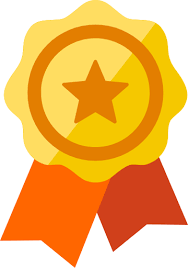
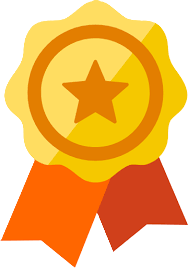
feat: (WEB-70) show premium badge on listing

diff --git a/src/style/PreviewImage.css b/src/style/PreviewImage.css
@@ -6,6 +6,33 @@
   aspect-ratio: 16 / 9;
 }
 
+.preview-img-premium-badge {
+  position: absolute;
+  top: 5px;
+  right: 5px;
+  display: flex;
+  align-items: center;
+  gap: 4px;
+  background-color: rgb(255, 0, 0);
+  color: white;
+  font-size: 18px;
+  font-weight: 700;
+  padding: 3px 7px;
+  border-bottom-left-radius: 5px;
+  border-top-right-radius: 5px;
+  letter-spacing: 0.4px;
+  z-index: 1;
+}
+
+.preview-img-premium-badge img {
+  background-color: white;
+  border-radius: 50%;
+  padding: 2px;
+  width: 23px;
+  height: 23px;
+  object-fit: contain;
+}
+
 /* ─── Arrow Buttons ─── */
 .preview-image-arrow {
   background: rgba(0, 0, 0, 0.5);
@@ -94,6 +121,15 @@
 
 /* ─── Tablet (481px – 1024px) ─── */
 @media (min-width: 481px) and (max-width: 1024px) {
+  .preview-img-premium-badge {
+    font-size: 1rem;
+  }
+
+  .preview-img-premium-badge img {
+    width: 20px;
+    height: 20px;
+  }
+
   .preview-image-arrow {
     height: 2.5rem;
     width: 2.5rem;
@@ -122,6 +158,15 @@
     border-radius: 10px;
     /* Taller crop on mobile for better visual */
     aspect-ratio: 4 / 3;
+  }
+
+  .preview-img-premium-badge {
+    font-size: 0.8rem;
+  }
+
+  .preview-img-premium-badge img {
+    width: 17px;
+    height: 17px;
   }
 
   .preview-image-arrow {

diff --git a/src/data/model/listingModel.js b/src/data/model/listingModel.js
@@ -147,6 +147,7 @@ class Listing {
     addedBy = "",
     updatedBy = "",
     isClaimed = false,
+    isPremium = false,
     ownerId = "",
     ownerName = "Unknown",
     claimStatus = "unclaimed",
@@ -181,6 +182,7 @@ class Listing {
     this.addedBy = addedBy;
     this.updatedBy = updatedBy;
     this.isClaimed = isClaimed;
+    this.isPremium = isPremium;
     this.ownerId = ownerId;
     this.ownerName = ownerName;
     this.claimStatus = claimStatus;
@@ -225,6 +227,7 @@ class Listing {
       addedBy: json.addedBy || "",
       updatedBy: json.updatedBy || "",
       isClaimed: json.isClaimed || false,
+      isPremium: json.isPremium || false,
 
       ownerId: json.ownerId || "",
       ownerName: capitalizeWords(json.ownerName) || "Unknown",
@@ -298,6 +301,7 @@ class Listing {
       tags: this.tags,
       addedBy: this.addedBy,
       isClaimed: this.isClaimed,
+      isPremium: this.isPremium,
       ownerId: this.ownerId,
       ownerName: this.ownerName,
       claimStatus: this.claimStatus,

diff --git a/src/components/ListingCard.jsx b/src/components/ListingCard.jsx
@@ -1,6 +1,7 @@
 import "../style/ListingCard.css";
 import { useNavigate } from "react-router-dom";
 import empty_thumb from "../assets/empty_thumb.png"
+import premiumImg from "../assets/premium.png";
 
 
 export default function ListingCard({listing}) {
@@ -17,8 +18,19 @@ export default function ListingCard({listing}) {
   return (
     <div className="listing-card" onClick={navigateToListingDetails}>
       {/* Image */}
-      <div className="listing-image">
-        <img src={imageUrl} alt={listing.name} onError={(e) => (e.target.src = empty_thumb)}/>
+      <div 
+        className="listing-image" 
+        style={{
+          backgroundImage: `url(${imageUrl})`,
+          backgroundSize: "cover",
+          backgroundPosition: "center"
+        }}>
+        {listing?.isPremium && (
+            <div className="premium-badge">
+              <img src={premiumImg} alt="premium" /> 
+              <span>Premium</span>
+            </div>
+          )}
       </div>
 
       {/* Content */}

diff --git a/src/style/ListingCard.css b/src/style/ListingCard.css
@@ -19,6 +19,7 @@
   width: 100%;
   aspect-ratio: 16 / 9;
   overflow: hidden;
+  position: relative;
 }
 
 .listing-image img {
@@ -41,6 +42,33 @@
   white-space: nowrap;
   overflow: hidden;
   text-overflow: ellipsis;
+}
+
+.premium-badge {
+  position: absolute;
+  top: 3px;
+  right: 3px;
+  display: flex;
+  align-items: center;
+  gap: 2px;
+  background-color: rgb(255, 0, 0);
+  color: white;
+  font-size: 12px;
+  font-weight: 700;
+  padding: 3px 7px;
+  border-bottom-left-radius: 5px;
+  border-top-right-radius: 5px;
+  letter-spacing: 0.4px;
+  z-index: 1;
+}
+
+.premium-badge img {
+  background-color: white;
+  border-radius: 50%;
+  padding: 2px;
+  width: 15px;
+  height: 15px;
+  object-fit: contain;
 }
 
 /* Title */
@@ -139,6 +167,15 @@
 
   .listing-content {
     padding: 8px 10px;
+  }
+
+  .premium-badge {
+    font-size: 9px;
+  }
+
+  .premium-badge img {
+    height: 13px;
+    width: 13px;
   }
 
   .listing-category {

diff --git a/src/components/PreviewImage.jsx b/src/components/PreviewImage.jsx
@@ -1,8 +1,9 @@
 import { useState, useRef, useEffect } from "react";
 import empty_thumb from "../assets/empty_thumb.png"
+import premiumImg from "../assets/premium.png";
 import "../style/PreviewImage.css";
 
-export default function PreviewImage({ width="100%", images = [empty_thumb] }) {
+export default function PreviewImage({ width="100%", images = [empty_thumb], isPremium = false }) {
   const previewRef = useRef(null);
 
   const [isLeftDisabled, setIsLeftDisabled] = useState(true);
@@ -56,6 +57,13 @@ const checkScrollPosition = () => {
         backgroundPosition: "center"
       }}
     >
+      {isPremium && (
+        <div className="preview-img-premium-badge">
+          <img src={premiumImg} alt="premium" /> 
+          <span>Premium</span>
+        </div>
+      )}
+
       <div className="preview-container">
 
         <div>

diff --git a/src/pages/ListingDetails.jsx b/src/pages/ListingDetails.jsx
@@ -146,7 +146,7 @@ function ListingDetails() {
       <div className="listing-details">
 
         <div className="listing-details-left">
-          <PreviewImage images={imageList} />
+          <PreviewImage images={imageList} isPremium={listing?.isPremium}/>
 
           <div className="likes-contact">
             <div className="likes">
